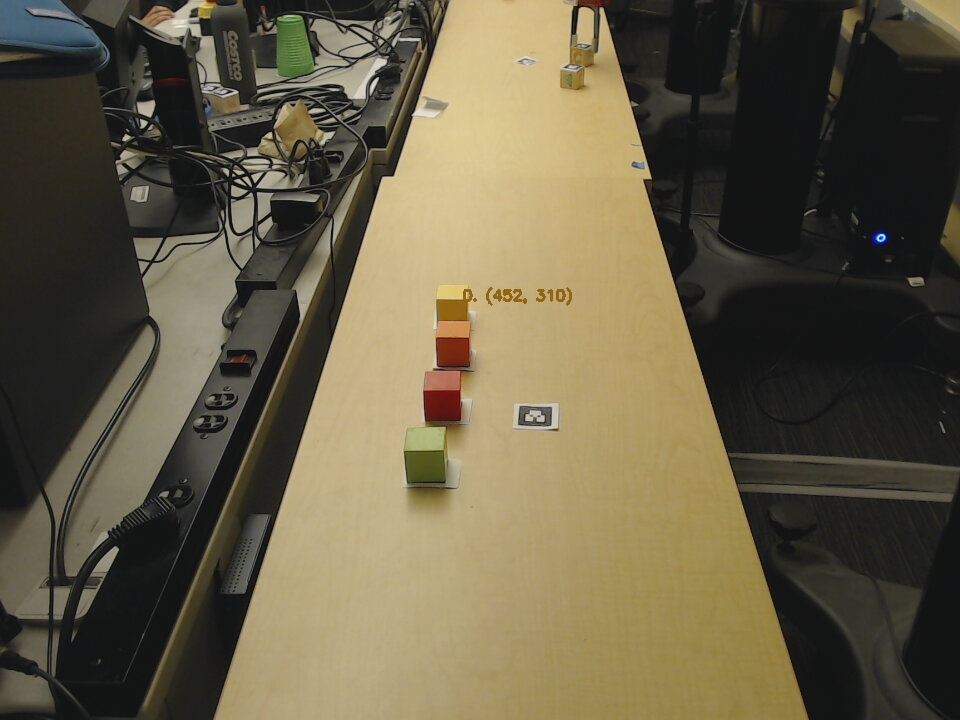
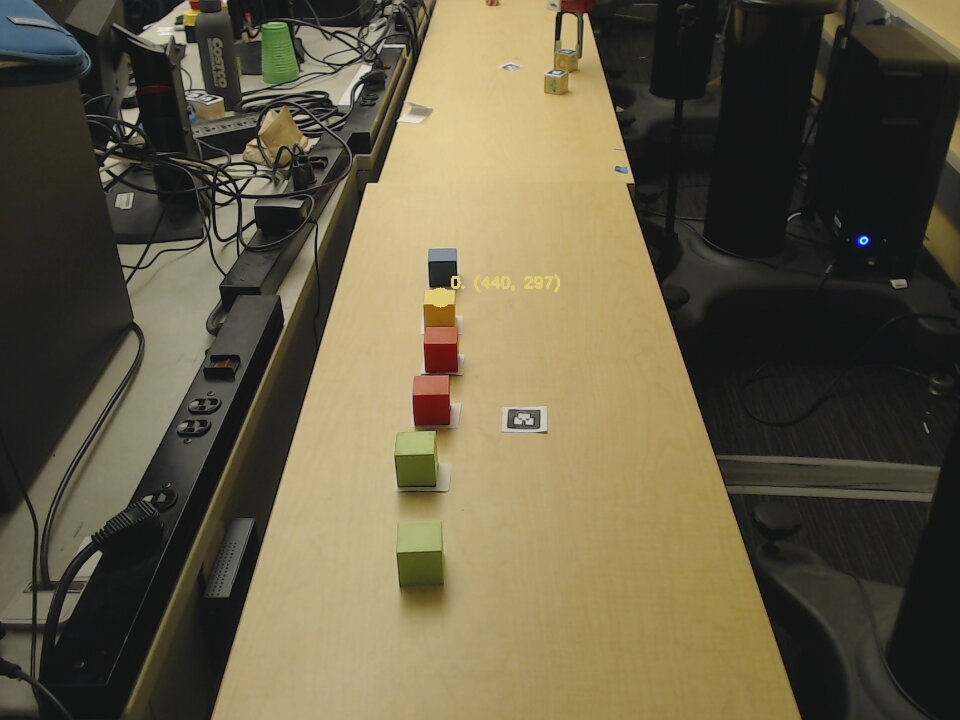
added tolerance changing to make sure we detect the correct number of blocks

diff --git a/color_detection.py b/color_detection.py
@@ -1,5 +1,8 @@
 import cv2
 import numpy as np
+import time
+
+MAX_TIME = 3
 
 COLORS = {
     "red": np.array([1, 230, 162]), 
@@ -57,13 +60,9 @@ def detect_color_positions(target_color, image_path, output_path, tolerance=np.a
         if (area > 30) and (mid_range_start <= cx <= mid_range_end):
             positions_with_areas.append(((cx, cy), area))
 
-    # Sort by contour area in descending order
     positions_with_areas.sort(key=lambda item: item[1], reverse=True)
-
-    # Extract sorted positions
     positions = [pos for pos, _ in positions_with_areas]
 
-    # Draw the positions on the image
     for i, pos in enumerate(positions):
         cx, cy = pos
         bgr_color = cv2.cvtColor(np.uint8([[base_hsv]]), cv2.COLOR_HSV2BGR)[0][0]
@@ -98,6 +97,10 @@ while c in COLORS:
     detect_colors.append(c)
     c = input()
 
+color_counts = {}
+for color in detect_colors:
+    color_counts[color] = color_counts.get(color, 0) + 1
+
 calibrate_colors = input("Calibrate colors? [y/n]: ")
 if calibrate_colors == "y":
     click_count = 0
@@ -114,9 +117,27 @@ if calibrate_colors == "y":
 
     cv2.destroyAllWindows()
 
-for color in detect_colors:
+start_time = time.time()
+
+for color in set(detect_colors): # run the detection process on all types of colors listed in detect_colors
     output_path = f'pictures/logitech_examples_output/output_{color}.jpg'
-    color_positions[color] = detect_color_positions(color, image_path, output_path)
+    
+    tolerance = np.array([10, 25, 25])
+    positions = detect_color_positions(color, image_path, output_path)
+
+    while len(positions) != color_counts[color]:
+
+        assert time.time() - start_time < MAX_TIME, \
+            f"Exceeded maximum time allowance of {MAX_TIME} seconds. Giving up!"
+
+        if len(positions) < color_counts[color]: # increase tolerance
+            tolerance += 1
+            positions = detect_color_positions(color, image_path, output_path, tolerance=tolerance)   
+        elif len(positions) > color_counts[color]: # decrease tolerances
+            tolerance -= 1
+            positions = detect_color_positions(color, image_path, output_path, tolerance=tolerance)
+
+    color_positions[color] = positions
 
 colors_detected = [color for color in detect_colors if color_positions[color] != []]
 
